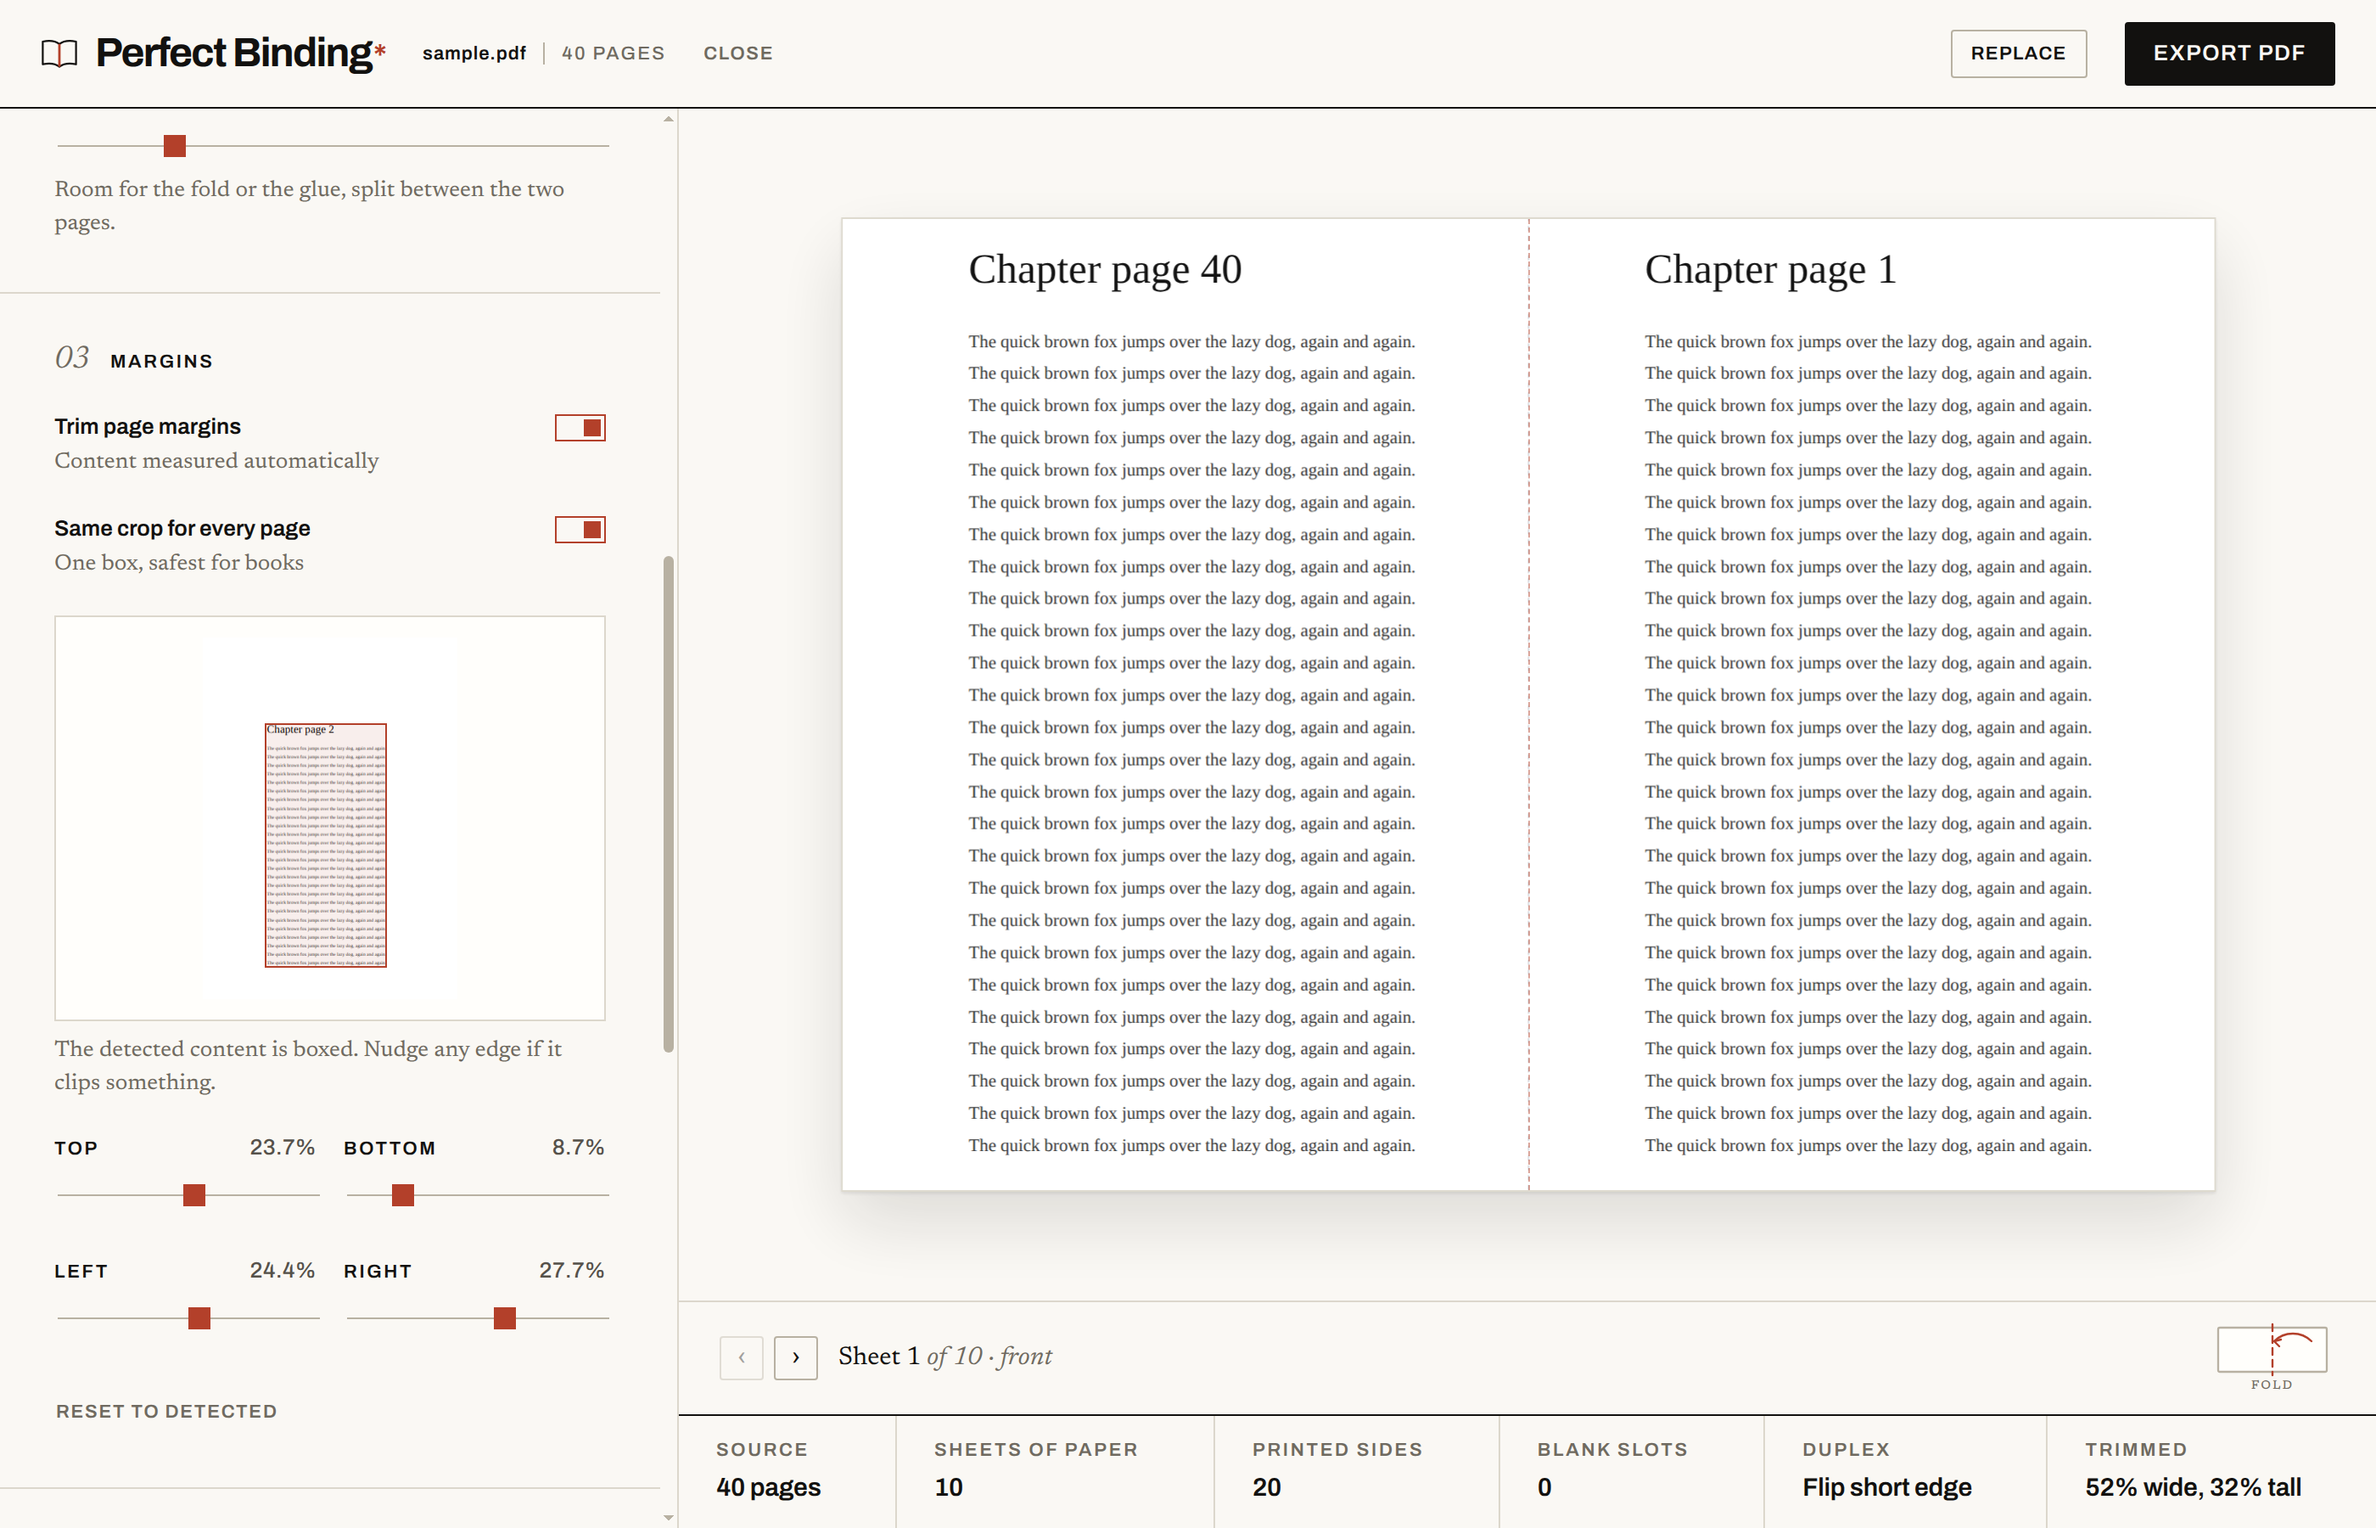
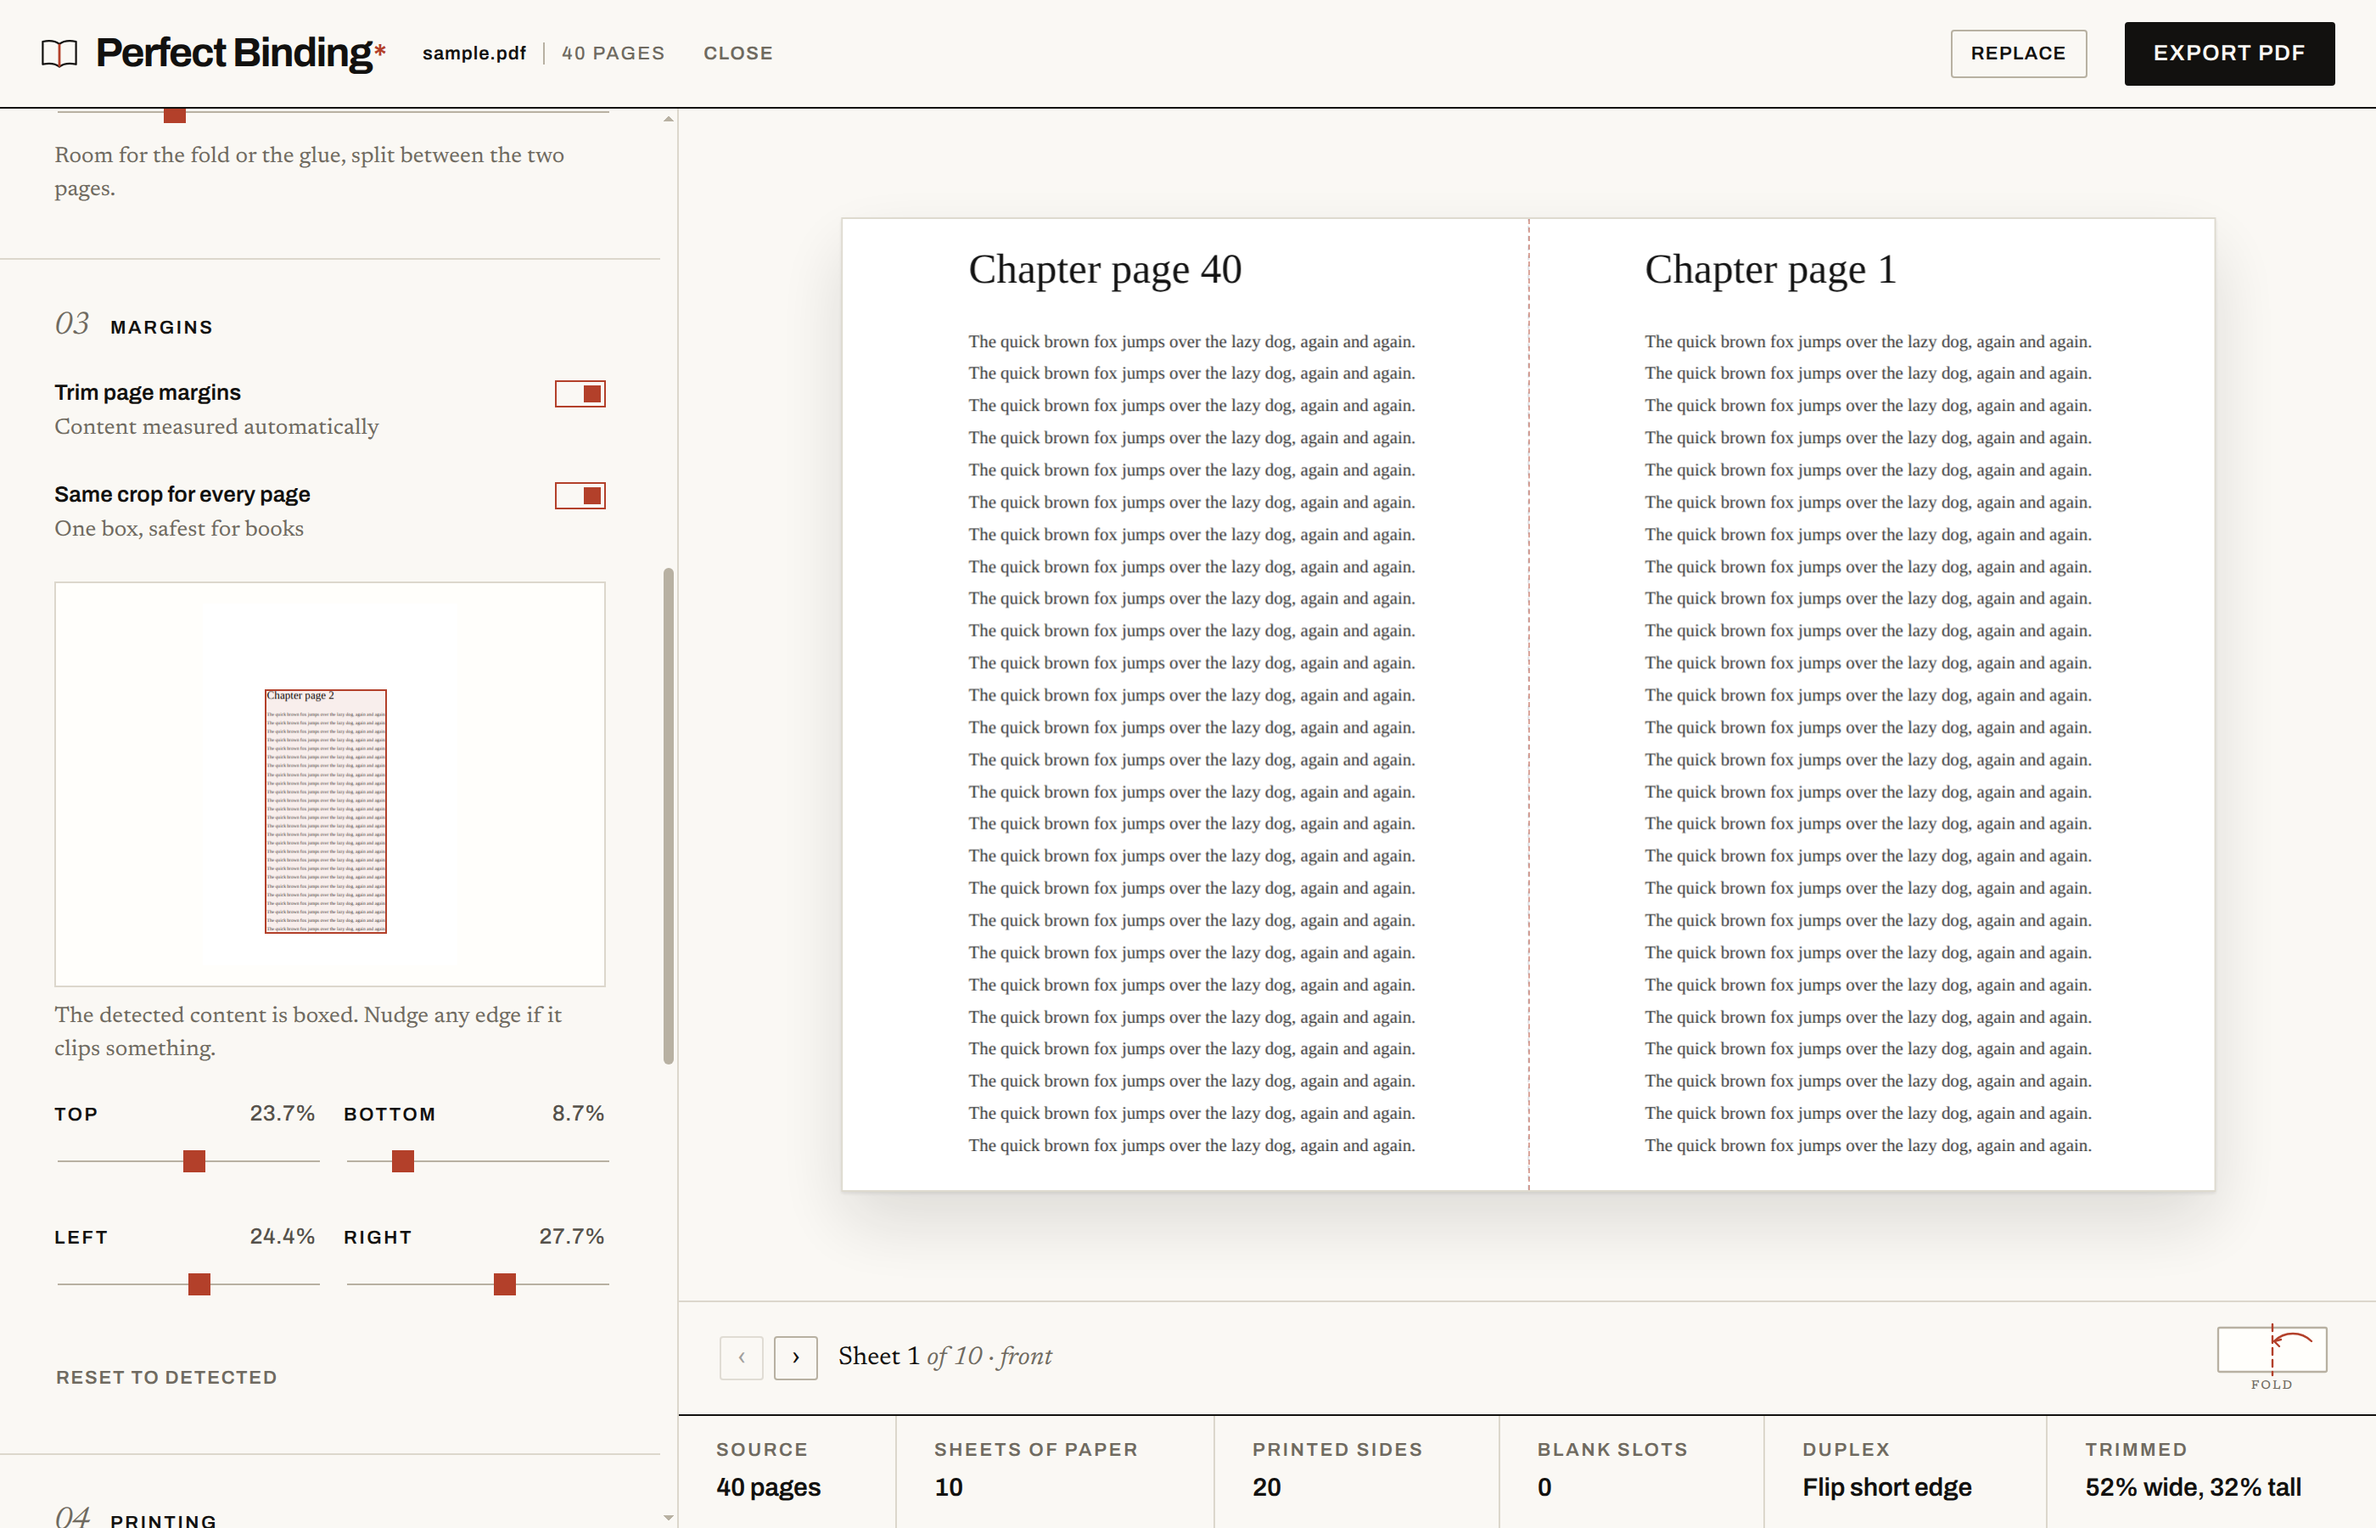
feature: add an update bar

diff --git a/src/renderer/App.tsx b/src/renderer/App.tsx
@@ -12,6 +12,7 @@ import { Field, Segmented, Select, Slider, Switch } from "./components/Controls"
 import {
   FoldedDiagram, MarginsDiagram, PerfectDiagram, SaddleDiagram,
 } from "./components/Diagrams";
+import { UpdateBar, useUpdate } from "./components/UpdateBar";
 
 /**
  * "folded" is a saddle imposition with exactly one sheet per signature: every
@@ -128,6 +129,7 @@ export default function App() {
   const [building, setBuilding] = useState(false);
   const [error, setError] = useState<string | null>(null);
   const [saved, setSaved] = useState(false);
+  const update = useUpdate();
   const buildId = useRef(0);
 
   const set = useCallback(<K extends keyof Settings>(key: K, value: Settings[K]) => {
@@ -253,7 +255,7 @@ export default function App() {
   const sheets = pageCount ? sheetsFor(pageCount) : 0;
   const isBooklet = settings.binding !== "none";
 
-  if (!file) return <Landing onFile={openFile} error={error} />;
+  if (!file) return <Landing onFile={openFile} error={error} update={update} />;
 
   return (
     <div className="app">
@@ -284,6 +286,7 @@ export default function App() {
           {saved ? "Saved ✓" : "Export PDF"}
         </button>
       </header>
+      <UpdateBar {...update} />
 
       <div className="body">
         <aside className="column">
@@ -439,14 +442,19 @@ function Stat({ k, v }: { k: string; v: string }) {
  * plate on the right, and the four methods below as a directory of hairline
  * cells — the reference magazine's directory spread.
  */
-function Landing({ onFile, error }: { onFile: (f: File) => void; error: string | null }) {
+function Landing({ onFile, error, update }: {
+  onFile: (f: File) => void;
+  error: string | null;
+  update: ReturnType<typeof useUpdate>;
+}) {
   return (
     <div className="app">
       <header className="masthead">
         <Wordmark />
         <div className="spacer" />
-        <span className="folio-line">Runs entirely on this machine</span>
+        <span className="folio-line">Your PDF never leaves this machine</span>
       </header>
+      <UpdateBar {...update} />
 
       <div className="cover">
         <div className="cover-inner">

diff --git a/src/renderer/components/UpdateBar.tsx b/src/renderer/components/UpdateBar.tsx
@@ -1,0 +1,52 @@
+import { useCallback, useEffect, useState } from "react";
+
+export interface Update { version: string; url: string; current: string }
+
+/**
+ * Asks the main process once per mount whether a newer release exists, and
+ * listens for the File → Check for Updates… menu item. In a browser (bun run
+ * web) there is no bridge and nothing happens.
+ */
+export function useUpdate() {
+  const [update, setUpdate] = useState<Update | null>(null);
+
+  useEffect(() => {
+    const bridge = window.desktop?.updates;
+    if (!bridge) return;
+    let live = true;
+    bridge.check().then((found) => { if (live && found) setUpdate(found); });
+    const off = bridge.onFound((found) => setUpdate(found));
+    return () => { live = false; off(); };
+  }, []);
+
+  const dismiss = useCallback(() => {
+    setUpdate((u) => { if (u) window.desktop?.updates?.skip(u.version); return null; });
+  }, []);
+
+  const stopChecking = useCallback(() => {
+    window.desktop?.updates?.enabled(false);
+    setUpdate(null);
+  }, []);
+
+  return { update, dismiss, stopChecking };
+}
+
+/** A hairline strip under the masthead. Absent unless there is something to say. */
+export function UpdateBar({ update, dismiss, stopChecking }: ReturnType<typeof useUpdate>) {
+  if (!update) return null;
+  return (
+    <div className="update-bar" role="status">
+      <span className="update-version">{update.version}</span>
+      <span className="update-text">
+        is out — you have {update.current}.
+      </span>
+      <button className="btn ghost sm"
+        onClick={() => window.desktop?.updates?.openReleasePage(update.url)}>
+        See what changed
+      </button>
+      <div className="spacer" />
+      <button className="link-btn" onClick={dismiss}>Not now</button>
+      <button className="link-btn" onClick={stopChecking}>Stop checking</button>
+    </div>
+  );
+}

diff --git a/src/renderer/app.css b/src/renderer/app.css
@@ -517,3 +517,27 @@ input[type="range"]:disabled { opacity: .35; }
   pointer-events: none;
 }
 .mini-grid { display: grid; grid-template-columns: 1fr 1fr; gap: 4px 16px; }
+
+/* ── update notice ────────────────────────────────────────────────────────
+   A hairline strip under the masthead, present only when a newer release
+   exists. Quiet by design: this is news, not an interruption. */
+.update-bar {
+  display: flex; align-items: center; gap: 12px; flex: none;
+  padding: 0 24px; height: 38px;
+  background: var(--spot-wash);
+  border-bottom: 1px solid var(--rule);
+  font-size: var(--t-2);
+}
+.update-bar .update-version {
+  font-weight: 700; letter-spacing: -.01em; color: var(--spot);
+}
+.update-bar .update-text { color: var(--ink-2); }
+.update-bar .spacer { flex: 1; }
+
+.link-btn {
+  border: 0; background: none; padding: 4px 2px; cursor: pointer;
+  font-size: var(--t-1); letter-spacing: .08em; text-transform: uppercase;
+  color: var(--ink-3);
+}
+.link-btn:hover { color: var(--ink); text-decoration: underline; }
+.link-btn:focus-visible { outline: 2px solid var(--spot); outline-offset: 2px; }

diff --git a/electron/updates.test.ts b/electron/updates.test.ts
@@ -1,0 +1,28 @@
+import { test, expect } from "bun:test";
+
+// The module pulls in `electron` at require time, which does not exist under
+// `bun test` — but the version comparison is pure, so it is worth pinning.
+const { compareVersions } = require("./updates.cjs") as {
+  compareVersions: (a: string, b: string) => number;
+};
+
+test("orders release versions by number, not by string", () => {
+  expect(compareVersions("0.10.0", "0.9.0")).toBe(1);
+  expect(compareVersions("1.0.0", "0.99.99")).toBe(1);
+  expect(compareVersions("0.2.0", "0.2.0")).toBe(0);
+  expect(compareVersions("0.1.9", "0.2.0")).toBe(-1);
+});
+
+test("tolerates a leading v and missing fields", () => {
+  expect(compareVersions("v0.2.0", "0.2.0")).toBe(0);
+  expect(compareVersions("0.2", "0.2.0")).toBe(0);
+  expect(compareVersions("v1", "0.9.9")).toBe(1);
+});
+
+test("sorts a prerelease below its own release", () => {
+  expect(compareVersions("0.2.0-beta.1", "0.2.0")).toBe(-1);
+  expect(compareVersions("0.2.0", "0.2.0-beta.1")).toBe(1);
+  expect(compareVersions("0.2.0-beta.1", "0.2.0-beta.2")).toBe(-1);
+  // a prerelease is still newer than the release before it
+  expect(compareVersions("0.2.0-beta.1", "0.1.0")).toBe(1);
+});

diff --git a/src/renderer/main.tsx b/src/renderer/main.tsx
@@ -7,6 +7,13 @@ declare global {
   interface Window {
     desktop?: {
       savePdf: (suggestedName: string, bytes: Uint8Array) => Promise<boolean>;
+      updates?: {
+        check: (force?: boolean) => Promise<import("./components/UpdateBar").Update | null>;
+        enabled: (value?: boolean) => Promise<boolean>;
+        skip: (version: string) => Promise<unknown>;
+        openReleasePage: (url: string) => Promise<boolean>;
+        onFound: (handler: (u: import("./components/UpdateBar").Update) => void) => () => void;
+      };
     };
   }
 }

diff --git a/README.md b/README.md
@@ -26,8 +26,10 @@ Everything runs locally — the PDF never leaves the machine.
 - **Paper and spine controls.** A4, Letter, Legal, A3, Tabloid, or A5; outer
   margin and spine gutter in millimetres; signature size for thick
   saddle-stitched books that would otherwise fold badly at the fore-edge.
-- **Offline by construction.** No network calls, no telemetry, no upload step.
-  The Electron shell runs under `default-src 'self'`.
+- **Offline by construction.** No telemetry, no upload step, no account. The
+  renderer runs under `default-src 'self'` and makes no network requests at all;
+  the one outbound call in the app is the update check below, and it can be
+  switched off.
 
 ![The working view: binding cards, paper controls, and the sheet proof](assets/screenshots/editing.png)
 
@@ -55,6 +57,27 @@ so SmartScreen warns on first launch: *More info → Run anyway*.
 **macOS** — open the `.dmg` (`-arm64` for Apple silicon, `-x64` for Intel) and
 drag the app to Applications. Also unsigned, so the first launch needs
 right-click → *Open* rather than a double-click.
+
+## Updating
+
+The app checks GitHub for a newer release once a day and shows a bar under the
+masthead when there is one. It never downloads or installs anything — you decide.
+*Not now* hides that version, *Stop checking* turns the check off for good, and
+**File → Check for Updates…** asks on demand even when the check is off.
+
+Installing the new version over the old one needs no uninstall:
+
+| Platform | Upgrading |
+| --- | --- |
+| Windows | Run the new `.exe`; the installer replaces the previous version |
+| macOS | Drag to Applications and confirm the replace |
+| Linux AppImage | Overwrite the old file, or delete it and run the new one |
+| Linux `.deb` | `sudo apt install ./PerfectBinding-*-linux-amd64.deb` |
+
+What the check sends: a plain GET to `api.github.com` for the latest release tag,
+no identifiers attached. The preference and the last-checked timestamp live in
+`settings.json` in the app's user-data directory. Set `PB_NO_UPDATE_CHECK=1` to
+disable it for a run — the smoke test and the screenshot script both do.
 
 ## Build it from source
 
@@ -148,7 +171,7 @@ src/core/         pure logic, no DOM — unit tested
 src/renderer/     React UI (no framework beyond React + hand-written CSS)
   lib/pdf.ts      pdf.js loading, page rendering, margin scanning
   fonts/          Archivo and Newsreader, Latin subsets, SIL OFL (see OFL.txt)
-electron/         main, preload, and the CSP applied as a response header
+electron/         main, preload, the CSP response header, and the update check
 scripts/          dev launcher, icon rasteriser, screenshots, smoke test
 assets/           icon.svg (the source), its PNGs, and the README screenshots
 ```
